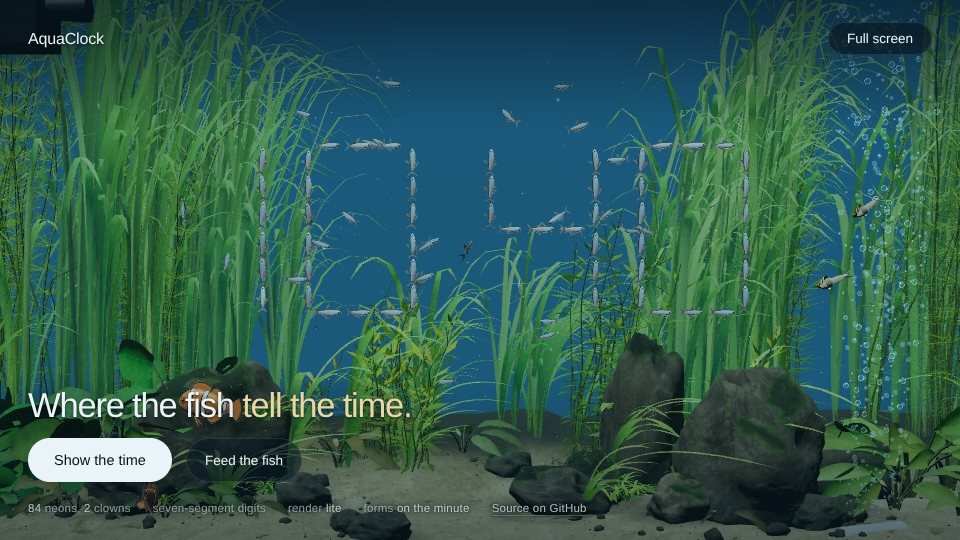
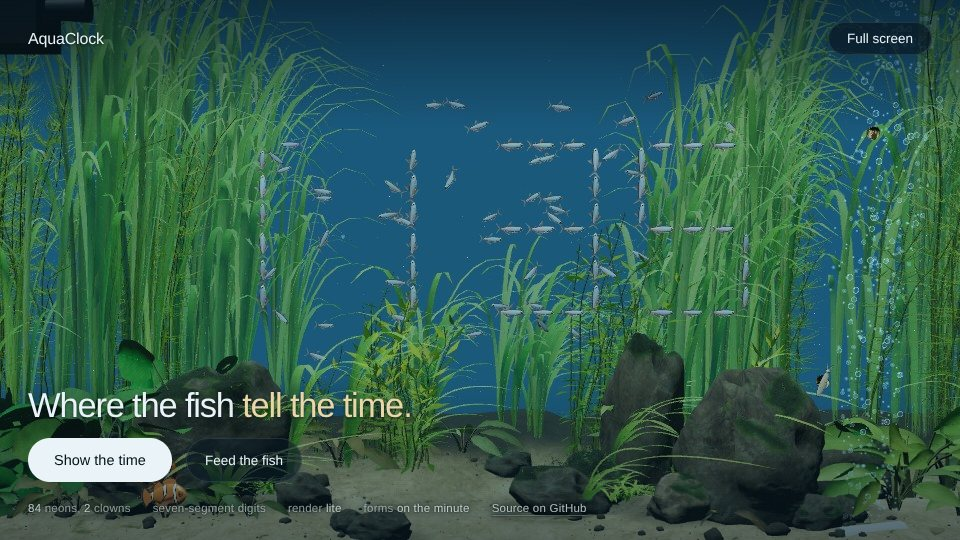
Fixed snails shells

diff --git a/src/scene/snails.js b/src/scene/snails.js
@@ -95,45 +95,46 @@ function makeSnail(size, geo, mats) {
 
   // the shell: tilted back over the tail, as a snail carries it, and lifted off the glass
   const shell = new THREE.Mesh(geo.shell, mats.shell);
-  shell.rotation.y = -0.95;
-  shell.position.set(-0.12, 0, 0.46);
+  shell.rotation.y = -0.35; // a slight tilt: more would push the shell's bulk toward the tail
+  shell.position.set(0.32, 0, 0.24); // over the middle of the animal
   flip.add(shell);
   // the soft body under the shell, which shows round the foot
   const mass = new THREE.Mesh(geo.sphere, mats.mass);
-  mass.scale.set(0.42, 0.34, 0.24);
-  mass.position.set(-0.12, 0, 0.2);
+  mass.scale.set(0.2, 0.16, 0.12); // just the neck of soft body where it joins the shell: the shell itself is what shows
+  mass.position.set(0.28, 0, 0.14);
   flip.add(mass);
   // the horny plate that shuts the shell: seen only when the snail is drawn in
   const operculum = new THREE.Mesh(geo.disc, mats.operculum);
   operculum.scale.set(0.26, 0.2, 1);
-  operculum.position.set(0.28, 0, 0.03);
+  operculum.position.set(0.62, 0, 0.03);
   operculum.rotation.x = Math.PI; // faces you
   flip.add(operculum);
 
   // everything that goes back under the shell hangs off one group, so retracting is one scale
   const body = new THREE.Group();
+  body.position.x = 0.32; // the shell's centre: the pivot it draws in about
   flip.add(body);
   const foot = new THREE.Mesh(geo.sphere, mats.foot);
-  foot.scale.set(1.0, 0.24, 0.05);
-  foot.position.set(0.15, 0, 0.05); // spans about -0.85 to +1.15: a tail behind the shell, a neck and head ahead
+  foot.scale.set(1.085, 0.24, 0.05);
+  foot.position.set(-0.155, 0, 0.05); // a tail behind the shell, a neck and head ahead of it
   body.add(foot);
   const head = new THREE.Mesh(geo.sphere, mats.foot);
   head.scale.set(0.16, 0.15, 0.1);
-  head.position.set(1.1, 0, 0.08);
+  head.position.set(0.88, 0, 0.08);
   body.add(head);
   const tentacles = [];
   for (const side of [1, -1]) {
     const mesh = new THREE.Mesh(geo.tentacle, mats.tentacle);
-    mesh.position.set(1.2, 0.07 * side, 0.1);
+    mesh.position.set(0.98, 0.07 * side, 0.1);
     mesh.rotation.z = 0.4 * side;
     body.add(mesh);
     tentacles.push({ mesh, base: 0.4 * side, side });
     const eye = new THREE.Mesh(geo.sphere, mats.eye);
     eye.scale.setScalar(0.035);
-    eye.position.set(1.22, 0.11 * side, 0.14);
+    eye.position.set(1.0, 0.11 * side, 0.14);
     body.add(eye);
   }
-  return { group, body, foot, operculum, mass, tentacles };
+  return { group, body, foot, head, operculum, mass, shell, tentacles };
 }
 
 export function createSnails(scene, { count = 2, glassZ = 3.55 } = {}) {
@@ -232,11 +233,11 @@ export function createSnails(scene, { count = 2, glassZ = 3.55 } = {}) {
       s.body.scale.setScalar(Math.max(e, 0.001));
       s.body.visible = e > 0.02;
       // the soft body under the shell draws up into it too, so a closed snail is shell and plate
-      s.mass.scale.set(0.42 * (0.3 + 0.7 * e), 0.34 * (0.3 + 0.7 * e), 0.24 * (0.3 + 0.7 * e));
+      s.mass.scale.set(0.2 * (0.3 + 0.7 * e), 0.16 * (0.3 + 0.7 * e), 0.12 * (0.3 + 0.7 * e));
       s.operculum.scale.set(0.26 * (1 - e) + 0.0001, 0.2 * (1 - e) + 0.0001, 1);
       s.operculum.visible = e < 0.98;
       const crawling = s.state === 'crawl' ? 1 : 0;
-      s.foot.scale.x = 1.0 * (1 + 0.025 * Math.sin(time * 2.1 + s.phase) * crawling);
+      s.foot.scale.x = 1.085 * (1 + 0.025 * Math.sin(time * 2.1 + s.phase) * crawling);
       for (const t of s.tentacles) {
         t.mesh.rotation.z = t.base + Math.sin(time * 1.6 + s.phase + (t.side > 0 ? 0 : 1.7)) * 0.14;
       }

diff --git a/index.html b/index.html
@@ -4155,45 +4155,46 @@ function makeSnail(size, geo, mats) {
 
   // the shell: tilted back over the tail, as a snail carries it, and lifted off the glass
   const shell = new THREE.Mesh(geo.shell, mats.shell);
-  shell.rotation.y = -0.95;
-  shell.position.set(-0.12, 0, 0.46);
+  shell.rotation.y = -0.35; // a slight tilt: more would push the shell's bulk toward the tail
+  shell.position.set(0.32, 0, 0.24); // over the middle of the animal
   flip.add(shell);
   // the soft body under the shell, which shows round the foot
   const mass = new THREE.Mesh(geo.sphere, mats.mass);
-  mass.scale.set(0.42, 0.34, 0.24);
-  mass.position.set(-0.12, 0, 0.2);
+  mass.scale.set(0.2, 0.16, 0.12); // just the neck of soft body where it joins the shell: the shell itself is what shows
+  mass.position.set(0.28, 0, 0.14);
   flip.add(mass);
   // the horny plate that shuts the shell: seen only when the snail is drawn in
   const operculum = new THREE.Mesh(geo.disc, mats.operculum);
   operculum.scale.set(0.26, 0.2, 1);
-  operculum.position.set(0.28, 0, 0.03);
+  operculum.position.set(0.62, 0, 0.03);
   operculum.rotation.x = Math.PI; // faces you
   flip.add(operculum);
 
   // everything that goes back under the shell hangs off one group, so retracting is one scale
   const body = new THREE.Group();
+  body.position.x = 0.32; // the shell's centre: the pivot it draws in about
   flip.add(body);
   const foot = new THREE.Mesh(geo.sphere, mats.foot);
-  foot.scale.set(1.0, 0.24, 0.05);
-  foot.position.set(0.15, 0, 0.05); // spans about -0.85 to +1.15: a tail behind the shell, a neck and head ahead
+  foot.scale.set(1.085, 0.24, 0.05);
+  foot.position.set(-0.155, 0, 0.05); // a tail behind the shell, a neck and head ahead of it
   body.add(foot);
   const head = new THREE.Mesh(geo.sphere, mats.foot);
   head.scale.set(0.16, 0.15, 0.1);
-  head.position.set(1.1, 0, 0.08);
+  head.position.set(0.88, 0, 0.08);
   body.add(head);
   const tentacles = [];
   for (const side of [1, -1]) {
     const mesh = new THREE.Mesh(geo.tentacle, mats.tentacle);
-    mesh.position.set(1.2, 0.07 * side, 0.1);
+    mesh.position.set(0.98, 0.07 * side, 0.1);
     mesh.rotation.z = 0.4 * side;
     body.add(mesh);
     tentacles.push({ mesh, base: 0.4 * side, side });
     const eye = new THREE.Mesh(geo.sphere, mats.eye);
     eye.scale.setScalar(0.035);
-    eye.position.set(1.22, 0.11 * side, 0.14);
+    eye.position.set(1.0, 0.11 * side, 0.14);
     body.add(eye);
   }
-  return { group, body, foot, operculum, mass, tentacles };
+  return { group, body, foot, head, operculum, mass, shell, tentacles };
 }
 
 function createSnails(scene, { count = 2, glassZ = 3.55 } = {}) {
@@ -4292,11 +4293,11 @@ function createSnails(scene, { count = 2, glassZ = 3.55 } = {}) {
       s.body.scale.setScalar(Math.max(e, 0.001));
       s.body.visible = e > 0.02;
       // the soft body under the shell draws up into it too, so a closed snail is shell and plate
-      s.mass.scale.set(0.42 * (0.3 + 0.7 * e), 0.34 * (0.3 + 0.7 * e), 0.24 * (0.3 + 0.7 * e));
+      s.mass.scale.set(0.2 * (0.3 + 0.7 * e), 0.16 * (0.3 + 0.7 * e), 0.12 * (0.3 + 0.7 * e));
       s.operculum.scale.set(0.26 * (1 - e) + 0.0001, 0.2 * (1 - e) + 0.0001, 1);
       s.operculum.visible = e < 0.98;
       const crawling = s.state === 'crawl' ? 1 : 0;
-      s.foot.scale.x = 1.0 * (1 + 0.025 * Math.sin(time * 2.1 + s.phase) * crawling);
+      s.foot.scale.x = 1.085 * (1 + 0.025 * Math.sin(time * 2.1 + s.phase) * crawling);
       for (const t of s.tentacles) {
         t.mesh.rotation.z = t.base + Math.sin(time * 1.6 + s.phase + (t.side > 0 ? 0 : 1.7)) * 0.14;
       }
